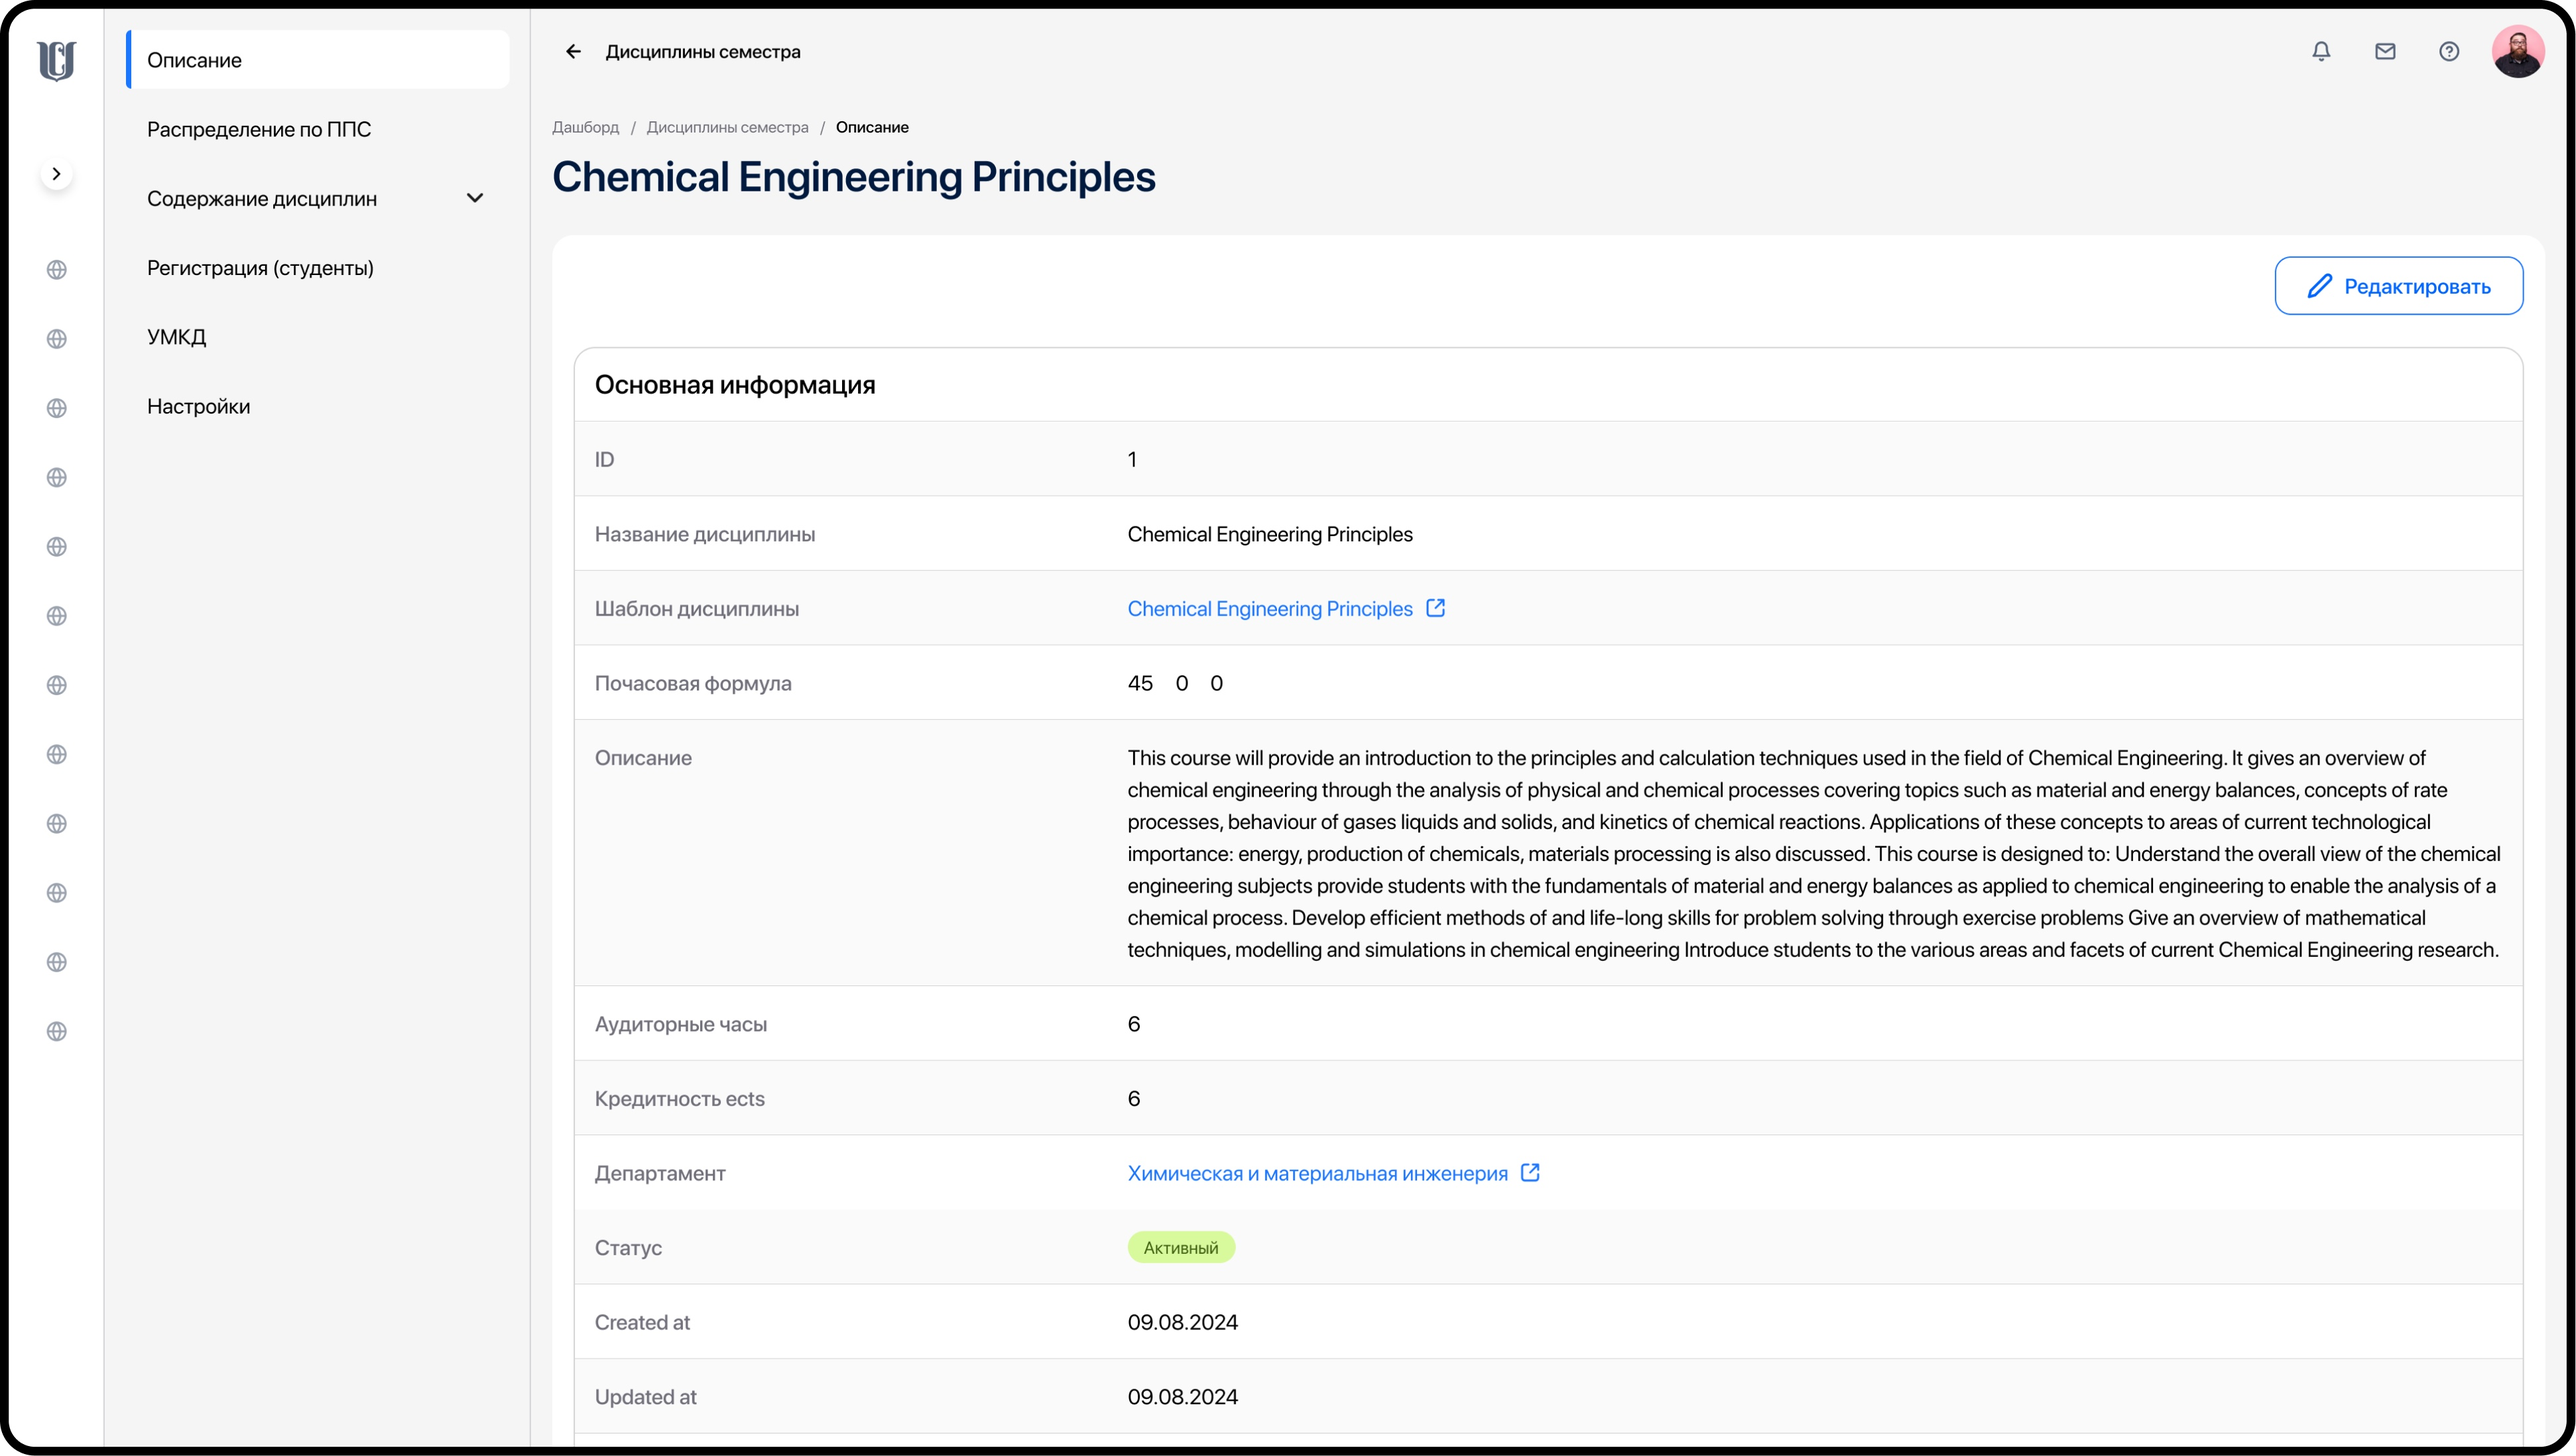
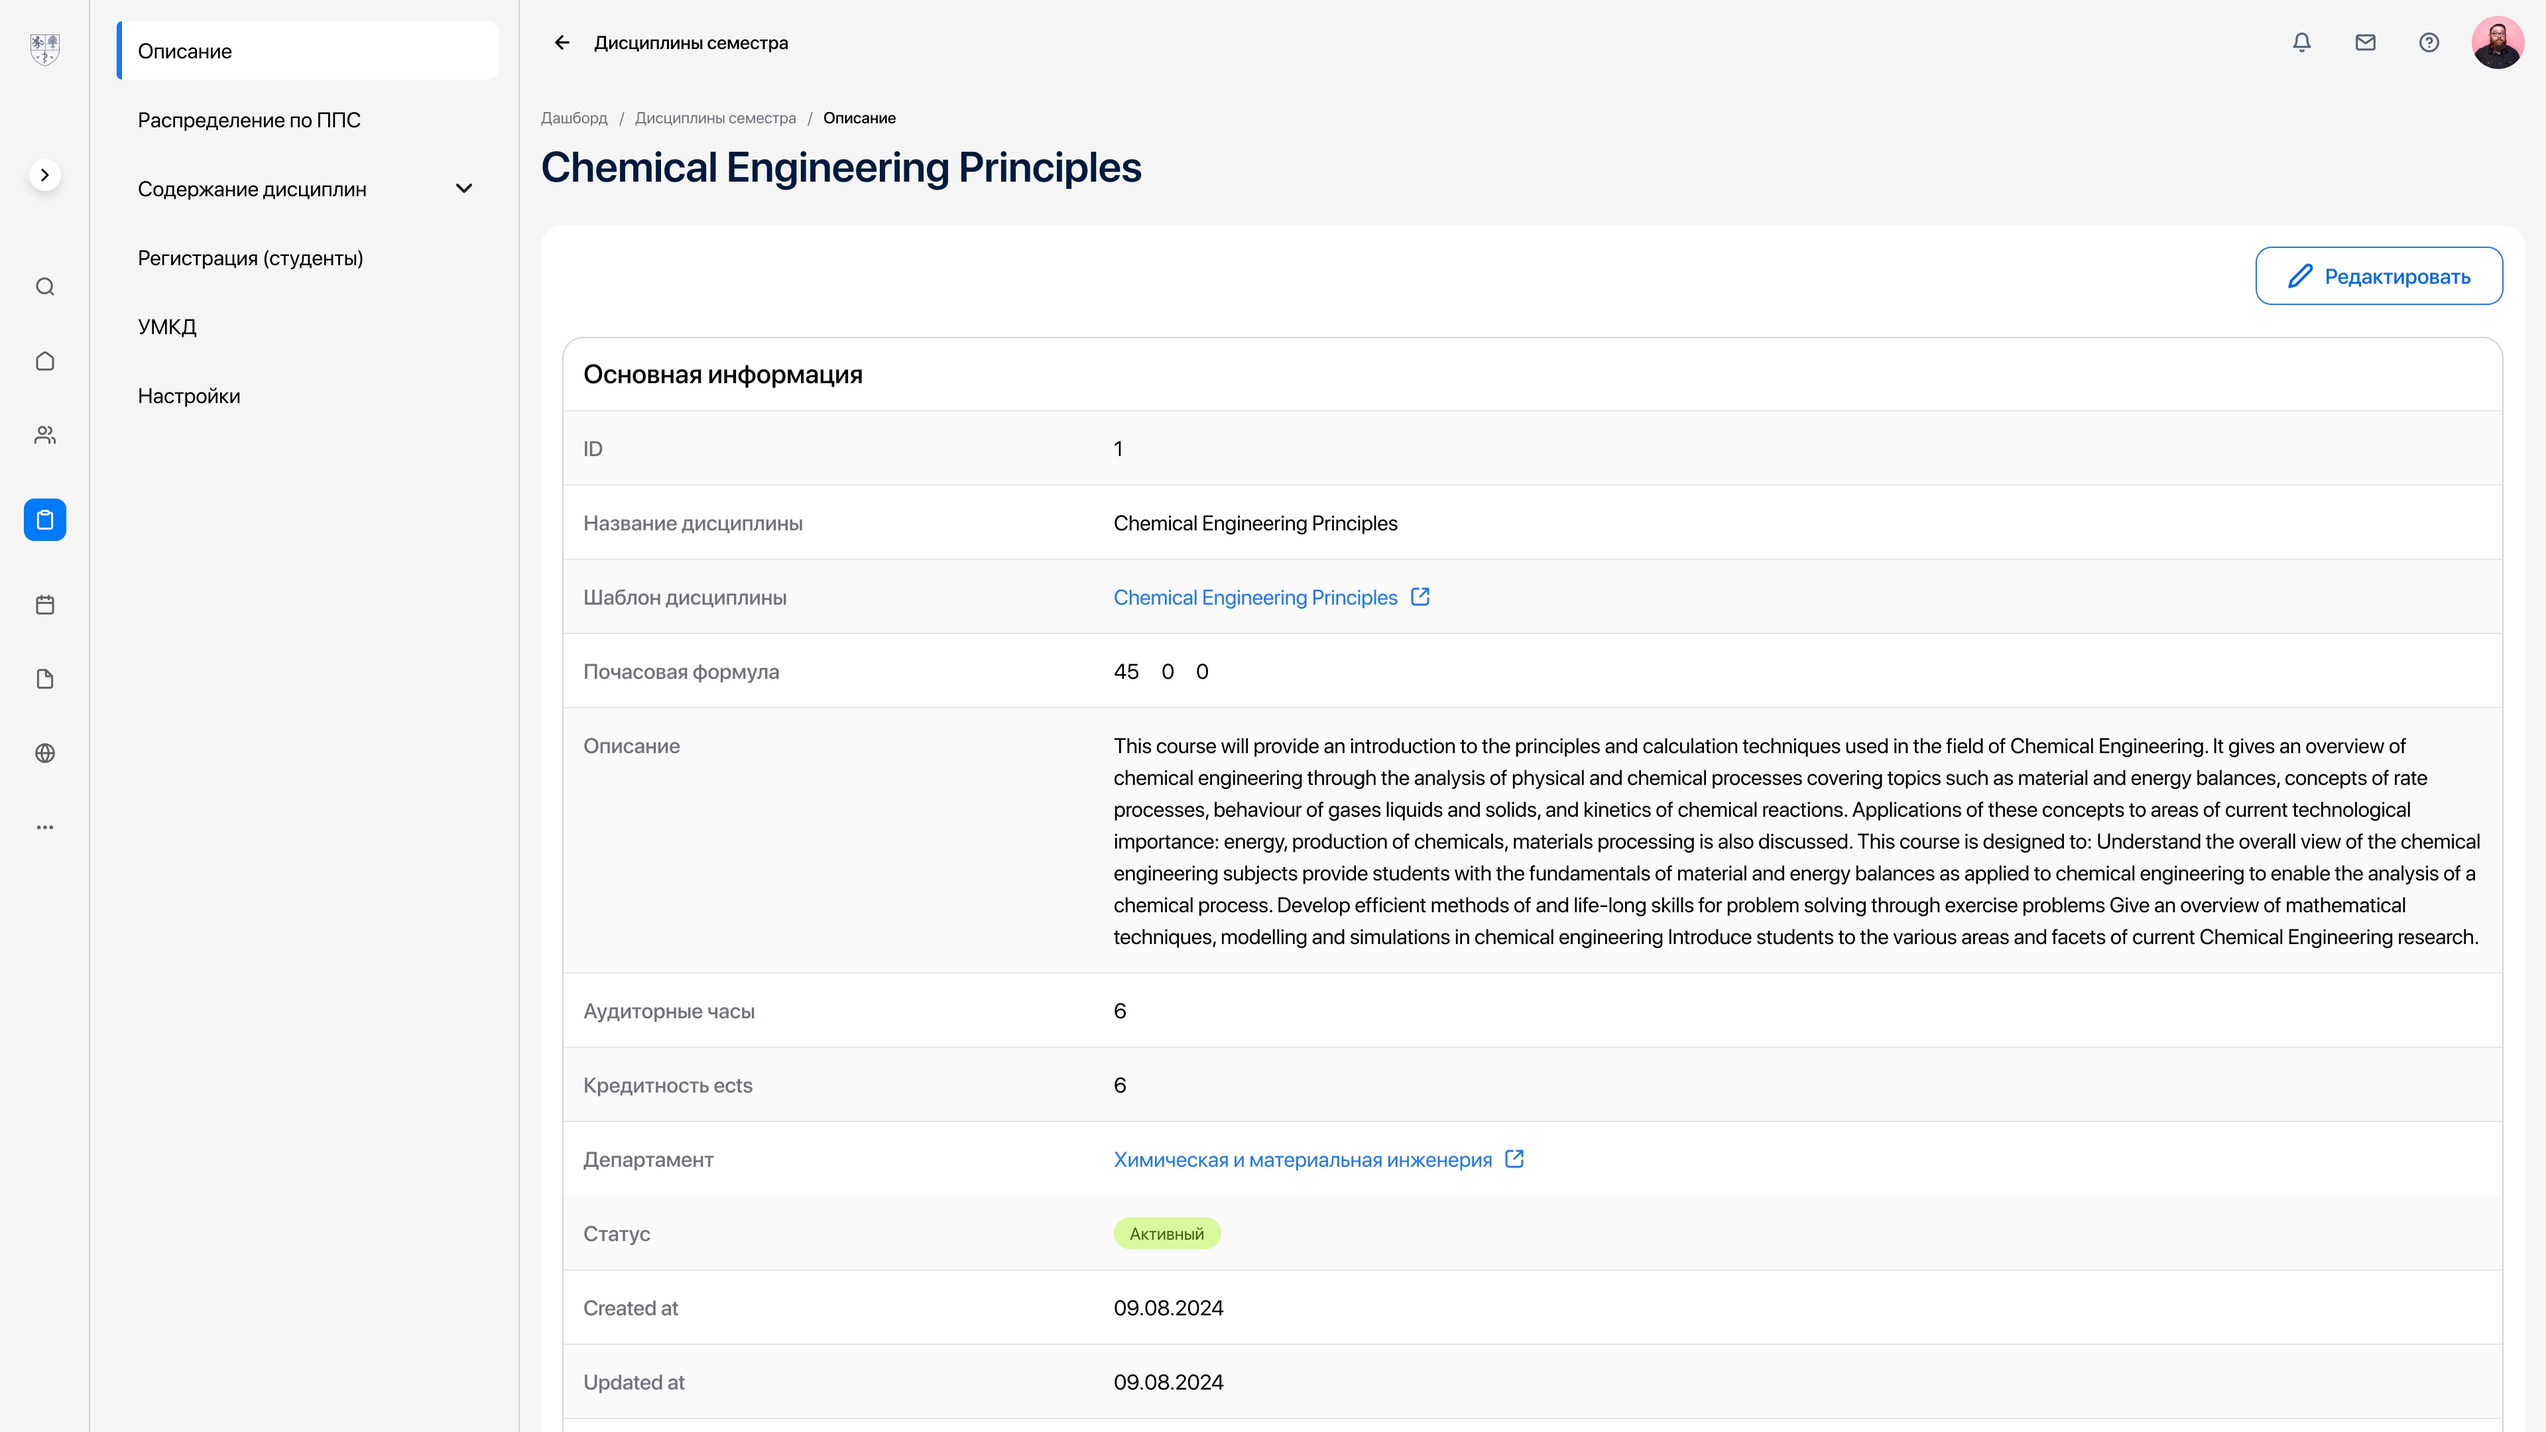
Replace second Hero Study screen with updated Figma frame
Swap hs-02 (discipline detail) for frame 3039-50120, exported at 2x
(3840x2160, sharp vector). Bump its cache-bust to ?v=3.

diff --git a/projects.js b/projects.js
@@ -263,7 +263,7 @@ window.PROJECTS = {
         ],
       },
       { media: { kind: "image", src: "assets/hs-01.jpg?v=3" } },
-      { media: { kind: "image", src: "assets/hs-02.jpg?v=2" } },
+      { media: { kind: "image", src: "assets/hs-02.jpg?v=3" } },
       { media: { kind: "image", src: "assets/hs-03.jpg?v=2" } },
       { media: { kind: "image", src: "assets/hs-04.jpg?v=2" } },
       { media: { kind: "image", src: "assets/hs-05.jpg?v=2" } },

diff --git a/case.html b/case.html
@@ -39,7 +39,7 @@
   </footer>
 
   <script src="https://cdn.jsdelivr.net/npm/lenis@1.1.14/dist/lenis.min.js"></script>
-  <script src="projects.js?v=42"></script>
+  <script src="projects.js?v=43"></script>
   <script src="case.js?v=16"></script>
   <script src="script.js?v=9"></script>
 </body>
